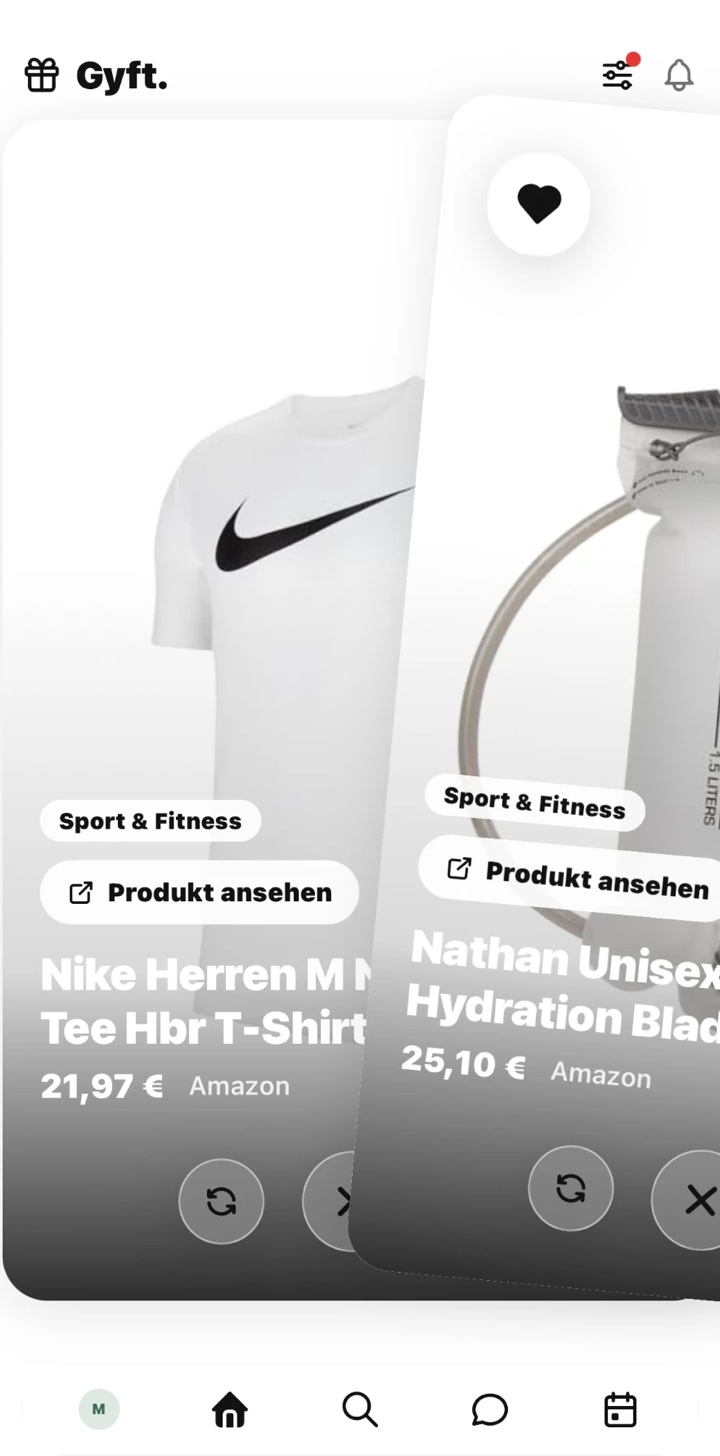
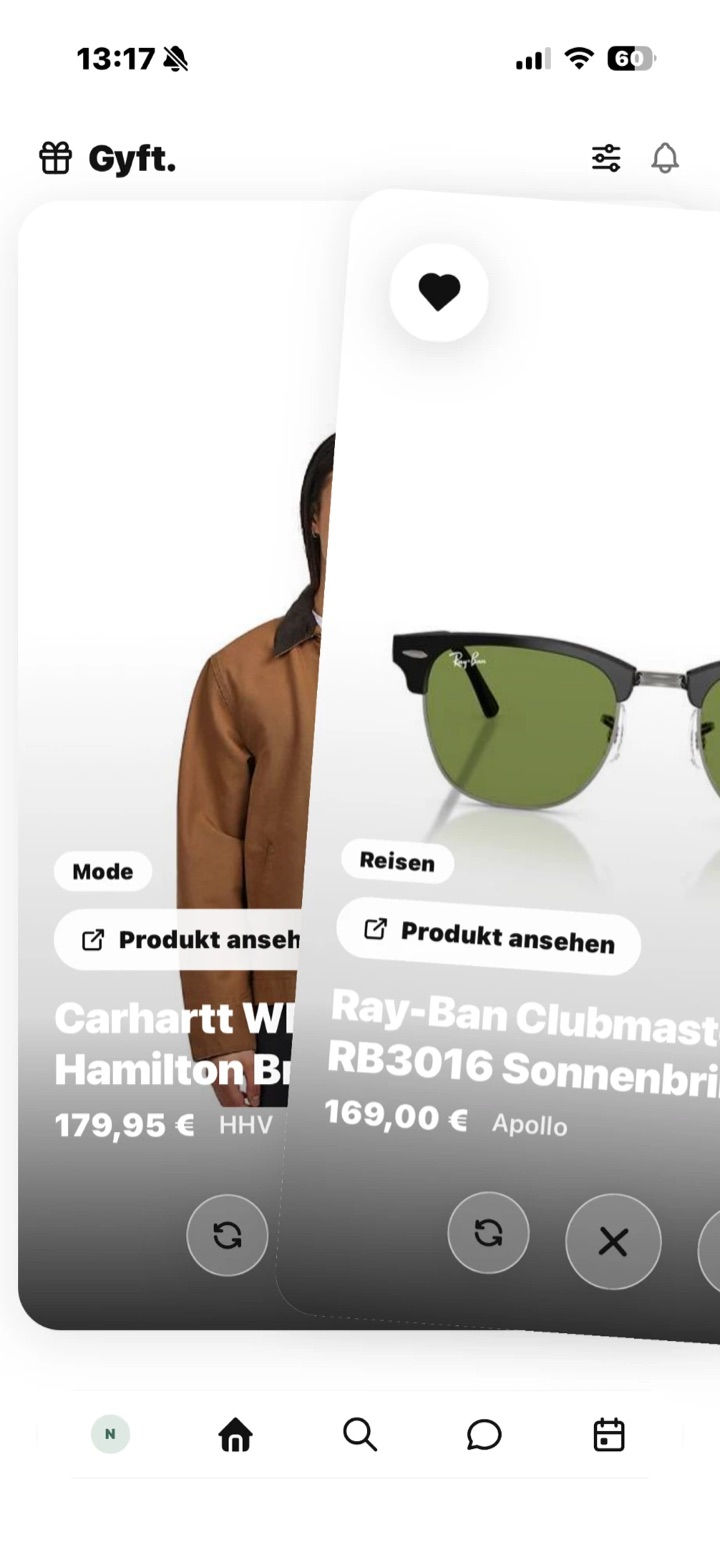
Startseite: neue Screenshots (Stand 29.10.), Abschnitt Wunschliste mit Größe, Texte aktualisiert

diff --git a/index.html b/index.html
@@ -135,36 +135,53 @@
     <div class="feat">
       <div class="feat-img">
         <div class="phones">
-          <div class="phone small"><img src="/assets/swipe-stapel.jpg" width="720" height="1456" loading="lazy" alt="Der Kartenstapel in Gyft: zwei Produktkarten übereinander mit Bild, Kategorie, Name und Preis; die obere ist mit einem Herz als „Passt zu mir“ markiert." /></div>
-          <div class="phone small"><img src="/assets/ki-frage.jpg" width="720" height="1456" loading="lazy" alt="Eine Profilfrage im Kartenstapel: „Welche Küche kochst du am liebsten?“ mit Antwortmöglichkeiten zum Auswählen." /></div>
+          <div class="phone small"><img src="/assets/swipe-stapel.jpg" width="720" height="1565" loading="lazy" alt="Der Kartenstapel in Gyft: Eine Karte mit einer Ray-Ban-Sonnenbrille wird gerade zur Seite gewischt, darunter liegt eine Carhartt-Jacke. Jede Karte zeigt Bild, Kategorie, Name, Preis und Shop." /></div>
+          <div class="phone small"><img src="/assets/ki-frage.jpg" width="720" height="1565" loading="lazy" alt="Eine kurze Frage im Kartenstapel: „Was reizt dich beim Musizieren oder Musikgenießen am meisten?“ mit Antworten zum Antippen und einem Feld zum Selbsteintippen." /></div>
         </div>
       </div>
       <div class="feat-text">
         <p class="label">Entdecken</p>
         <h3>Swipen statt suchen.</h3>
-        <p>Eine Produktkarte nach der anderen. Rechts für „Passt zu mir“, links für „Passt nicht“ — und was dir gefällt, sehen deine Freunde. Die Reihenfolge stellt eine KI aus deinem Profil zusammen, und zwischendurch stellt sie dir eine kurze Frage: Jede Antwort macht die nächsten Vorschläge treffender. Filtern kannst du nach Stichwörtern, Preis und Interessen.</p>
+        <p>Eine Karte nach der anderen: nach rechts für „Passt zu mir“, nach links für „Passt nicht“. Gyft lernt aus jedem Wisch und stellt den Stapel passend zu deinem Profil zusammen — mit Produkten bekannter Marken aus vielen Online-Shops. Zwischendurch kommt eine kurze Frage statt einer Karte. Ein Tipp genügt, und die nächsten Vorschläge treffen besser.</p>
       </div>
     </div>
 
     <div class="feat flip">
       <div class="feat-img">
-        <div class="phone single"><img src="/assets/profil.jpg" width="720" height="1456" loading="lazy" alt="Das Profil eines Freundes in Gyft: Interessen, die Erinnerung an seinen Geburtstag, der Hinweis auf die anonyme Reservierung und darunter die Vorschlagsliste mit einem Knopf zum Reservieren." /></div>
+        <div class="phones">
+          <div class="phone small"><img src="/assets/groesse.jpg" width="720" height="1565" loading="lazy" alt="Nach einem Like auf einen Nike-Hoodie fragt ein kleines Fenster: „Welche Größe hättest du gern?“ mit den Größen XS bis XXL und einem Feld zum Eintippen." /></div>
+          <div class="phone small"><img src="/assets/ideen.jpg" width="720" height="1565" loading="lazy" alt="Die Liste „Ideen für mich“: gelikte Produkte wie eine Ray-Ban-Sonnenbrille und eine Dickies-Hose, darunter die Angabe „Größe M“, sortierbar nach Preis." /></div>
+        </div>
       </div>
       <div class="feat-text">
-        <p class="label">Geschenk finden</p>
-        <h3>Kein Rätselraten mehr.</h3>
-        <p>Sieh, was ein Freund sich wirklich wünscht, und reserviere anonym ein Geschenk — die Überraschung bleibt. Andere sehen nur, dass eine Idee schon vergeben ist, nie von wem.</p>
+        <p class="label">Deine Wunschliste</p>
+        <h3>Wünsche, bis zur Größe genau.</h3>
+        <p>Was dir gefällt, landet in „Ideen für mich“ — genau diese Liste sehen deine Freunde. Likest du Kleidung oder Schuhe, fragt Gyft gleich nach deiner Größe. Farbe oder Variante notierst du mit einem Satz dazu. Was du schon hast, schiebst du nach „Bereits erhalten“, damit es niemand doppelt schenkt.</p>
       </div>
     </div>
 
     <div class="feat">
       <div class="feat-img">
-        <div class="phone single"><img src="/assets/events.jpg" width="720" height="1456" loading="lazy" alt="Ein Event in Gyft: Geburtstagsparty mit Datum, Ort, Gästeliste und der Wichtel-Auslosung." /></div>
+        <div class="phones">
+          <div class="phone small"><img src="/assets/profil.jpg" width="720" height="1565" loading="lazy" alt="Das Profil eines Freundes: seine Interessen, die Erinnerung „Geburtstag in 212 Tagen“, der Hinweis auf die anonyme Reservierung und „Gyft schlägt vor“ mit einem Polo-Ralph-Lauren-Pullover in Größe M und dem Knopf „Reservieren“." /></div>
+          <div class="phone small"><img src="/assets/reserviert.jpg" width="720" height="1565" loading="lazy" alt="Dieselbe Liste nach dem Reservieren: Bei den Air Jordan 4 in Größe 42 steht „Von dir reserviert“, eingeblendet ist „Reserviert – anonym &amp; überraschungssicher“." /></div>
+        </div>
+      </div>
+      <div class="feat-text">
+        <p class="label">Geschenk finden</p>
+        <h3>Kein Rätselraten mehr.</h3>
+        <p>Im Profil deiner Freunde siehst du, was sie sich wünschen — samt Größe. Gyft erinnert dich rechtzeitig an den Geburtstag. Mit einem Tipp reservierst du ein Geschenk, anonym: Die beschenkte Person erfährt nie, von wem es kommt. Andere Freunde sehen nur, dass die Idee schon vergeben ist.</p>
+      </div>
+    </div>
+
+    <div class="feat flip">
+      <div class="feat-img">
+        <div class="phone single"><img src="/assets/events.jpg" width="720" height="1565" loading="lazy" alt="Ein Wichtel-Event zu Weihnachten: Datum 24. Dezember, Gästeliste mit Gastgeber und Zusagen, darunter die Auslosung „Du beschenkst“." /></div>
       </div>
       <div class="feat-text">
         <p class="label">Events &amp; Nachrichten</p>
         <h3>Feiern planen, Wichteln auslosen.</h3>
-        <p>Lege Geburtstage und Feiern an, lade deinen Kreis ein und sieh, wer zugesagt hat. Fürs Wichteln lost Gyft aus — jeder erfährt nur, wen er selbst beschenkt. Die Absprachen laufen im Chat zum Event, nicht in drei verschiedenen Gruppen.</p>
+        <p>Lege Geburtstage, Weihnachtsfeiern und Partys an, lade deinen Kreis ein und sieh auf einen Blick, wer zugesagt hat. Beim Wichteln lost Gyft aus — jeder erfährt nur, wen er selbst beschenkt. Abgesprochen wird im Chat, ohne drei verschiedene Gruppen.</p>
       </div>
     </div>
 
@@ -181,17 +198,17 @@
       <div class="step">
         <div class="step-n">01</div>
         <h4>Profil anlegen</h4>
-        <p>Trag Interessen, Marken und No-Gos ein. Zwischendurch stellt dir die KI kurze Fragen — je mehr sie weiß, desto besser die Vorschläge.</p>
+        <p>Wähl deine Interessen und trag Lieblingsmarken und No-Gos ein, etwa „kein Alkohol“ oder „vegan“. Was nicht passt, schlägt Gyft dir gar nicht erst vor.</p>
       </div>
       <div class="step">
         <div class="step-n">02</div>
         <h4>Ideen swipen</h4>
-        <p>Geh Produkte durch und markiere, was zu dir passt. Genau diese Ideen sehen deine Freunde später auf deinem Profil.</p>
+        <p>Wisch durch die Vorschläge und markier, was zu dir passt — bei Kleidung gleich mit Größe. Genau diese Ideen sehen deine Freunde auf deinem Profil.</p>
       </div>
       <div class="step">
         <div class="step-n">03</div>
         <h4>Freunde verbinden</h4>
-        <p>Sieh die Ideen deiner Freunde, reservier anonym eine davon — und Gyft erinnert dich, wenn jemand bald Geburtstag hat.</p>
+        <p>Füg deine Freunde über ihren Nickname hinzu, sieh ihre Ideen und reservier eine davon anonym — Gyft erinnert dich, wenn jemand bald Geburtstag hat.</p>
       </div>
     </div>
   </div>
